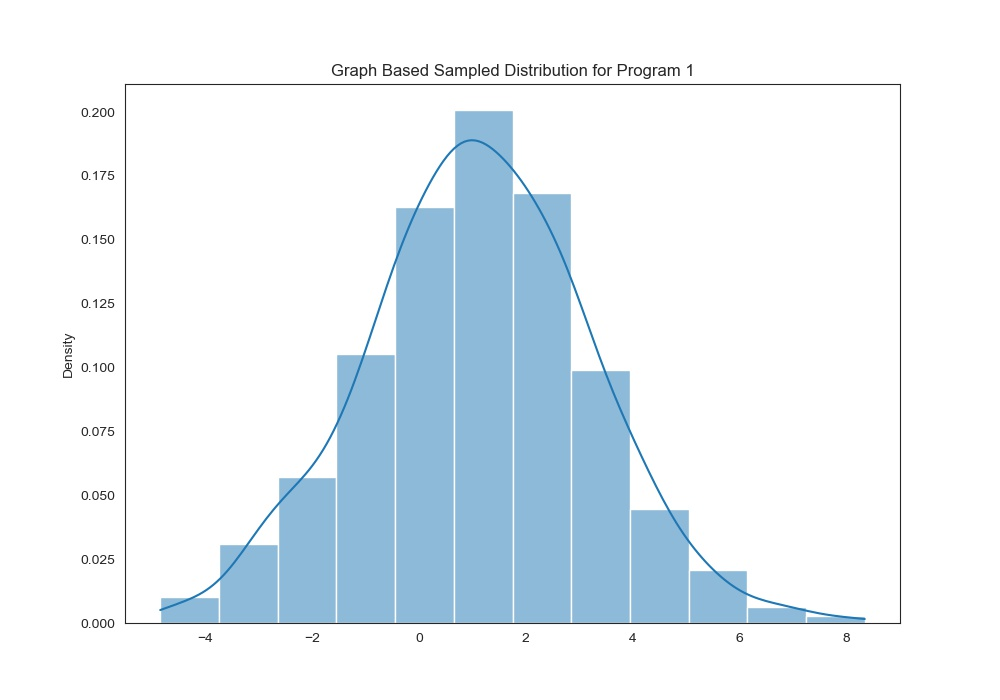
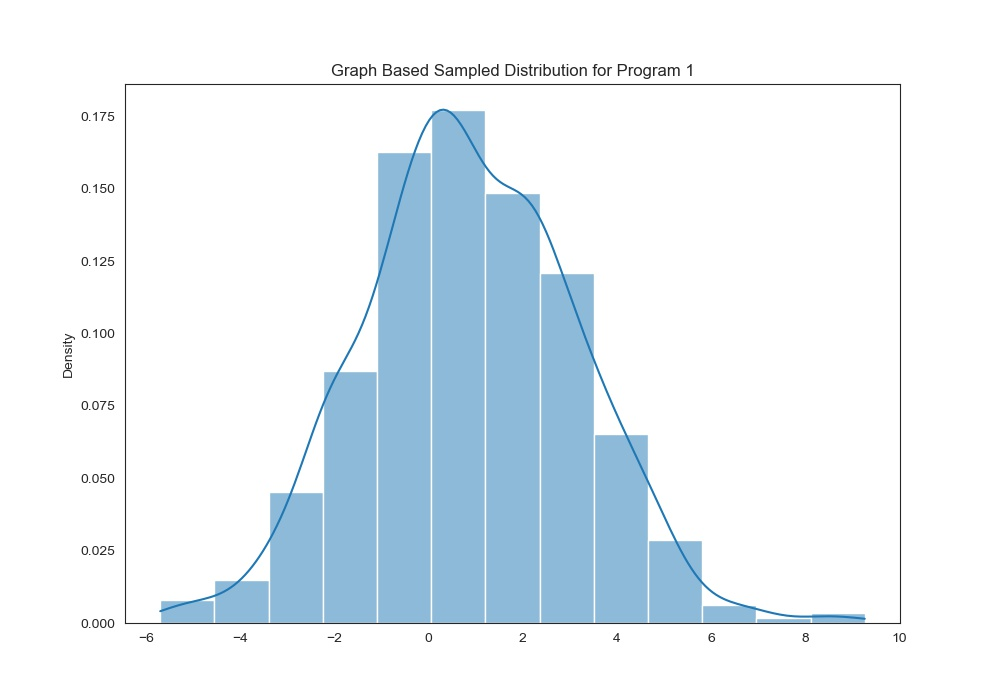
gibbs works? :D

diff --git a/graph_based_sampling.py b/graph_based_sampling.py
@@ -1,4 +1,4 @@
-import os, torch, operator, utils
+import os, torch, operator,copy, utils
 import numpy as np
 import torch.distributions as dist
 
@@ -29,10 +29,16 @@ env = { 'sqrt': lambda * x: torch.sqrt(torch.FloatTensor(x)),
         'append': lambda x,a: torch.cat((x,torch.Tensor([a]))), 
         '<': lambda a,b: a < b, 
         '>': lambda a,b: a > b, 
+        '=': lambda a,b: a == b,
+        'and': lambda a,b: a and b,
+        'or': lambda a,b: a or b,
         'normal': dist.normal.Normal,
         'beta': dist.beta.Beta,
         'uniform': dist.uniform.Uniform,
         'exponential': dist.exponential.Exponential,
+        'flip': dist.bernoulli.Bernoulli,
+        'dirichlet': dist.dirichlet.Dirichlet,
+        'gamma' : dist.gamma.Gamma,
         'discrete': lambda a: dist.categorical.Categorical(torch.flatten(a)),
         'mat-transpose': lambda t: torch.transpose(t,0,1),
         'mat-repmat': lambda t,d0,d1: t.repeat(d0,d1),
@@ -72,7 +78,7 @@ def top_sort(V,E):
     return stack
 
 
-def deterministic_eval(exp):
+def deterministic_eval(exp, env):
     "Evaluation function for the deterministic target language of the graph based representation."
     if type(exp) is list:
         op = exp[0]
@@ -85,10 +91,9 @@ def deterministic_eval(exp):
         raise("Expression type unknown.", exp)
 
 
-def sample_from_joint(graph):
-    "This function does ancestral sampling starting from the prior."
-    
-    user_defn, G, ret_exp = graph[0], graph[1], graph[2]
+def evaluate_graph(graph, observe=True):
+
+    user_defn, G = graph[0], graph[1]
     var_order = top_sort(G['V'],G['A'])
     
     for fn in user_defn:
@@ -99,8 +104,27 @@ def sample_from_joint(graph):
 
     for v in var_order:
         link_fn = G['P'][v]
+        if not observe and link_fn[0] == 'observe*':
+            continue
         # store result
-        env[v] = evaluate_program_help(link_fn[1], env)[0].sample()
+        dist, _ = evaluate_program_help(link_fn[1], env)
+        env[v] = dist.sample()
+        G['Y'][v] = dist
+    return copy.deepcopy(graph), copy.deepcopy(env)
+
+
+def sample_from_graph(graph, context):
+    ret_exp = graph[2]
+    return evaluate_program_help(ret_exp, context)[0]
+
+    
+
+def sample_from_joint(graph, observe=True):
+    "This function does ancestral sampling starting from the prior."
+    
+    ret_exp =  graph[2]
+    evaluate_graph(graph,observe)
+
     try:
         # single sample
         return evaluate_program_help(ret_exp, env)[0].item()
@@ -165,8 +189,8 @@ def run_probabilistic_tests():
 if __name__ == '__main__':
     
 
-    run_deterministic_tests()
-    run_probabilistic_tests()
+    #run_deterministic_tests()
+    #run_probabilistic_tests()
 
     for i in range(1,5):
 
@@ -175,10 +199,11 @@ if __name__ == '__main__':
         filename = dirn + '/programs/{}.daphne'
         graph = daphne(['graph','-i',filename.format(i)])
         print('\n\n\nSample of prior of program {}:'.format(i))
-        #print(sample_from_joint(graph)) 
+        sample_from_joint(graph) 
+        print('graph:', graph)
 
-        stream = get_stream(graph)
+        #stream = get_stream(graph)
          
-        utils.draw_hists("Graph Based", i, stream, n_samples) 
+        #utils.draw_hists("Graph Based", i, stream, n_samples) 
 
     

diff --git a/gibbs_sampling.py b/gibbs_sampling.py
@@ -1,0 +1,74 @@
+import torch, os, copy
+import torch.distributions as dist
+
+from daphne import daphne
+from evaluation_based_sampling import evaluate_program, evaluate_program_help, evaluate_program_observe
+from graph_based_sampling import deterministic_eval, evaluate_graph, sample_from_graph
+
+
+dirn = os.path.dirname(os.path.abspath(__file__))
+
+def accept(graph,linkfn,v, context):
+
+    dist, _ = evaluate_program_help(linkfn[1], context)
+    sample = dist.sample()    
+    alpha = dist.log_prob(context[v]) - dist.log_prob(sample)
+    sample_context = copy.deepcopy(context)
+    sample_context[v] = sample
+
+    if sample.dim() == 0:
+        sample = sample.unsqueeze(0)
+    if alpha.dim() == 0:
+        alpha = alpha.unsqueeze(0)
+
+    _ ,  score_p = evaluate_program_observe(linkfn[1],sample, context, torch.tensor([0.0]))
+    _ , score_c = evaluate_program_observe(linkfn[1], sample,sample_context, torch.tensor([0.0]))
+    alpha += score_c
+    alpha -= score_p
+
+    if v in graph['A']:
+        for var in graph['A'][v]:
+            _, score_p = evaluate_program_observe(graph['P'][var][1],context[var],context, torch.tensor([0.0]))
+            _, score_c = evaluate_program_observe(graph['P'][var][1], context[var],sample_context, torch.tensor([0.0]))
+            alpha += score_c
+            alpha -= score_p
+
+    return sample, torch.exp(alpha) 
+
+def gibbs_step(G, context):
+    samples = []
+    graph = G[1]
+
+    for v in graph['V']:
+        sample = sample_from_graph(G,context)
+        eval_v, alpha = accept(graph,graph['P'][v],v,context)
+
+        u = dist.uniform.Uniform(0,1).sample()
+
+        if u < alpha:
+            context[v] = eval_v
+            samples.append(sample)       
+
+    return (samples, copy.deepcopy(context))
+
+def gibbs(X,S):
+    samples = []
+    G, context = evaluate_graph(X)
+    for _ in range(S):
+        
+        s, context = gibbs_step(G,context)
+        samples.extend(s)
+    return samples
+
+if __name__ == '__main__':
+
+    for i in range(1,5):
+
+        steps = 100
+
+        filename = dirn + '/programs/{}.daphne'
+        graph = daphne(['graph','-i',filename.format(i)])
+        print('\n\n\nSample of prior of program {}:'.format(i))
+
+        samples = gibbs(graph, steps)
+        print('samples?', samples)

diff --git a/evaluation_based_sampling.py b/evaluation_based_sampling.py
@@ -20,13 +20,18 @@ def add_context(vals, c, context):
     return context
 
 def evaluate_program_observe(dist, exp, context, sig):
+
+    if torch.is_tensor(exp):
+        c = exp
+    else: 
+        c, sig = evaluate_program_help(exp, context, sig)
+    
     d, sig = evaluate_program_help(dist, context, sig)
-    c, sig = evaluate_program_help(exp, context, sig)
-    if not torch.is_tensor(c):
-        c = torch.tensor(c)
+    if not torch.is_tensor(exp):
+        c, sig = torch.tensor(c)
+
     W = d.log_prob(c)
     W = W.unsqueeze(0) if W.dim() == 0 else W
-    print('sig? ', sig, 'W? ', W)
     sig += W
     return c, sig
 
@@ -84,6 +89,8 @@ def evaluate_program_help(ast,context,sig=0):
         if pr.is_primitive(ast[0]):                                          
             operator = context[ast[0]]
             return operator(*c), sig
+        elif torch.is_tensor(ast[0]):
+            return ast[0], sig
         # 25: case f
         else: 
             vals, e_0 = context[ast[0]]
@@ -165,4 +172,4 @@ if __name__ == '__main__':
 
         stream = get_stream(ast)
     
-        utils.draw_hists("Eval Based", i, stream, n_samples)
+        #utils.draw_hists("Eval Based", i, stream, n_samples)

diff --git a/hmc.py b/hmc.py
@@ -1,31 +1,36 @@
-import torch, os
+import torch,os 
+import torch.distributions as dist
 
 from daphne import daphne
-from evaluation_based_sampling import evaluate_program
-from graph_based_sampling import sample_from_joint
-
 
 dirn = os.path.dirname(os.path.abspath(__file__))
 
-def accept(sample,child,parent):
+
+def grad_u(x):
     return 
 
-def gibbs_step(X):
+def leapfrog(X,R,T,eps):
     return
 
-def gibbs(X,S):
-    samples = []
-    X_t = iter(X)
-    for _ in range(S):
-        samples.append(gibbs_step(next(X_t)))
-    return samples
+def hmc(X,S,T,eps,M):
+    for s in range(S):
+        r = dist.normal.Normal(0,M).sample()
+
+        u = dist.uniform.Uniform(0,1).sample()
+           
+    return 
+
 
 if __name__ == '__main__':
 
     for i in range(1,5):
 
         steps = 100
+        eps = -1e4
+        M = 0
 
         filename = dirn + '/programs/{}.daphne'
         graph = daphne(['graph','-i',filename.format(i)])
         print('\n\n\nSample of prior of program {}:'.format(i))
+
+        samples = hmc(graph, steps, eps, M)

diff --git a/importance_sampling.py b/importance_sampling.py
@@ -31,7 +31,6 @@ if __name__ == '__main__':
         #stream = get_stream(ast)
         samples, weights = likelihood_weighting(ast, L)
         print('samples lengh: ',len(samples), 'weights: ', weights.size())
-        #print('type samples: ', type(samples),'type weights: ' ,type(weights))
         #samples = samples * weights 
         
     
